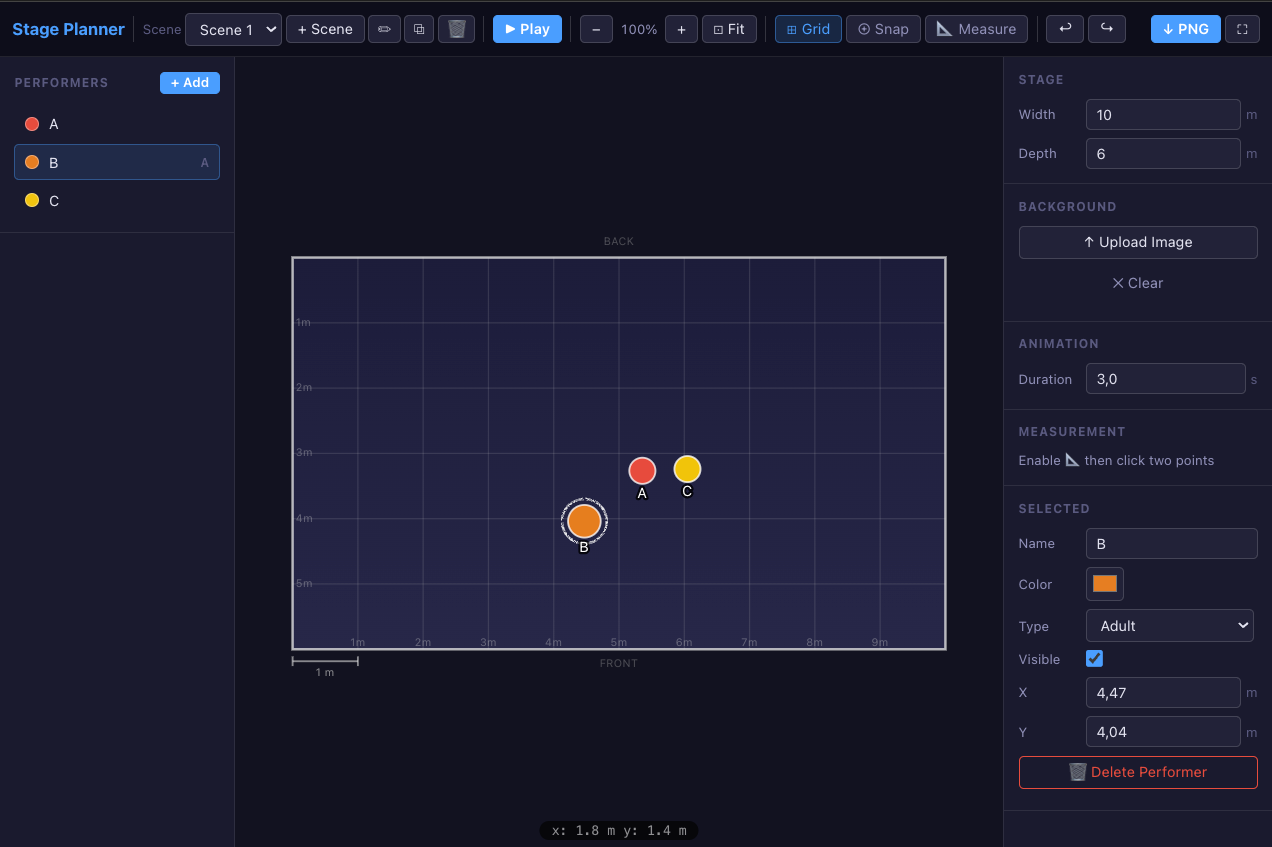
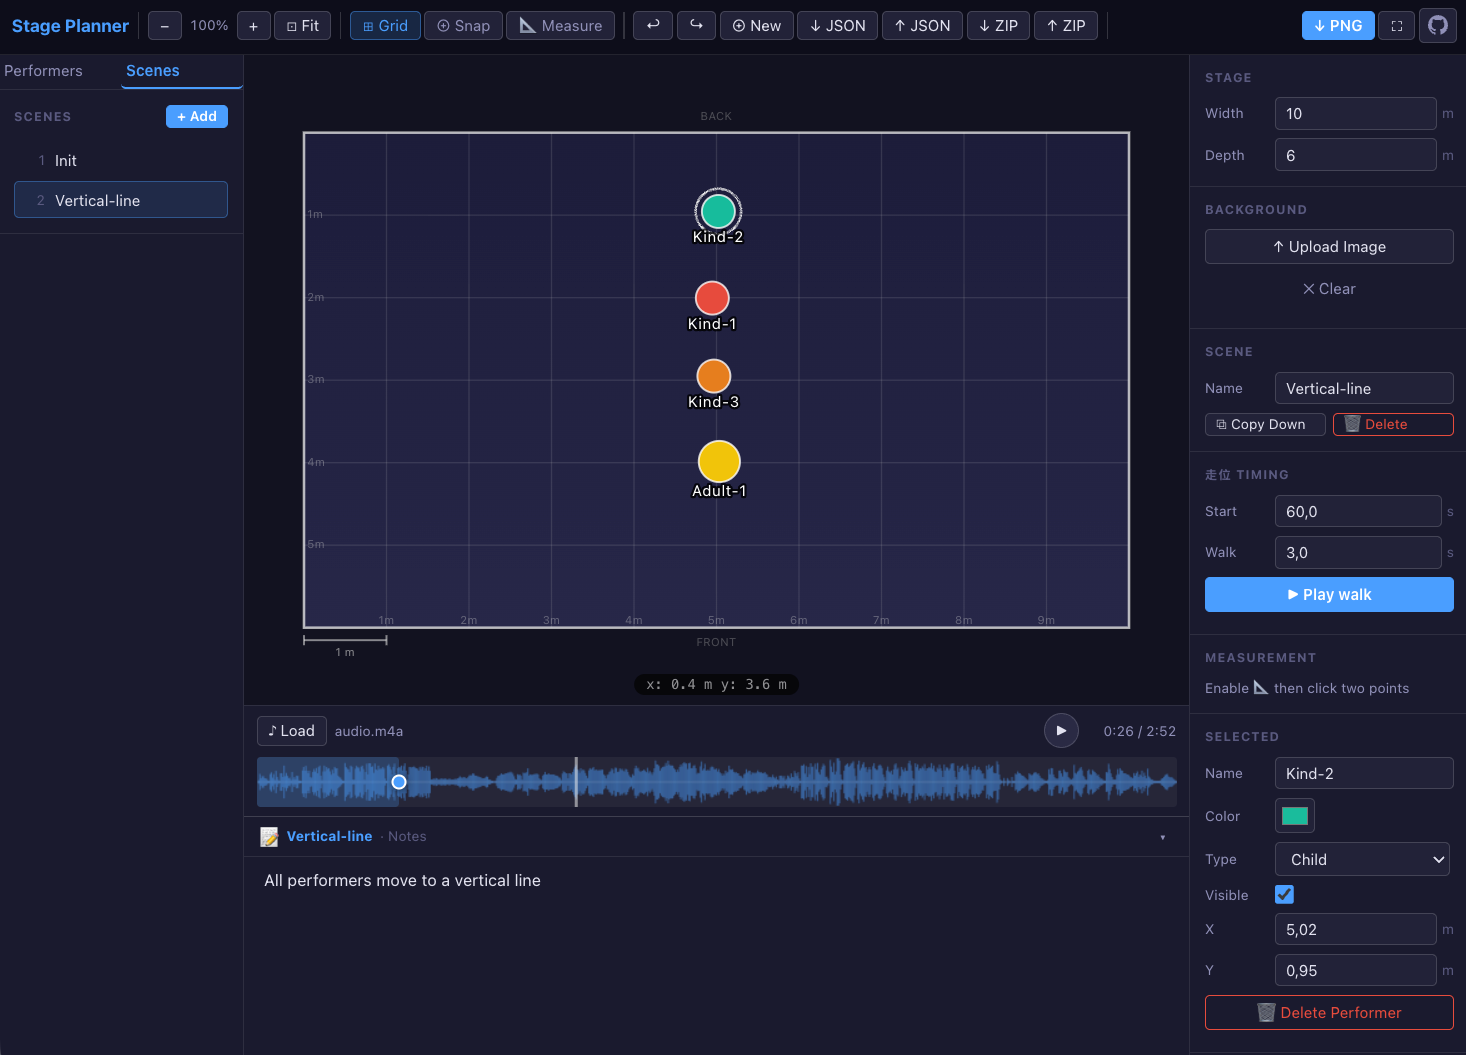
docs: update docs

diff --git a/README-cn.md b/README-cn.md
@@ -1,6 +1,6 @@
 # 舞台队形编排工具
 
-[English](README.md) | **[▶ 在线演示](https://xpanflow.github.io/stage-formation/)**
+[English](README.md) | **[▶ 在线演示](https://xpanflow.github.io/stage-planner/)**
 
 ![舞台队形编排工具](doc/ScreenShot.png)
 